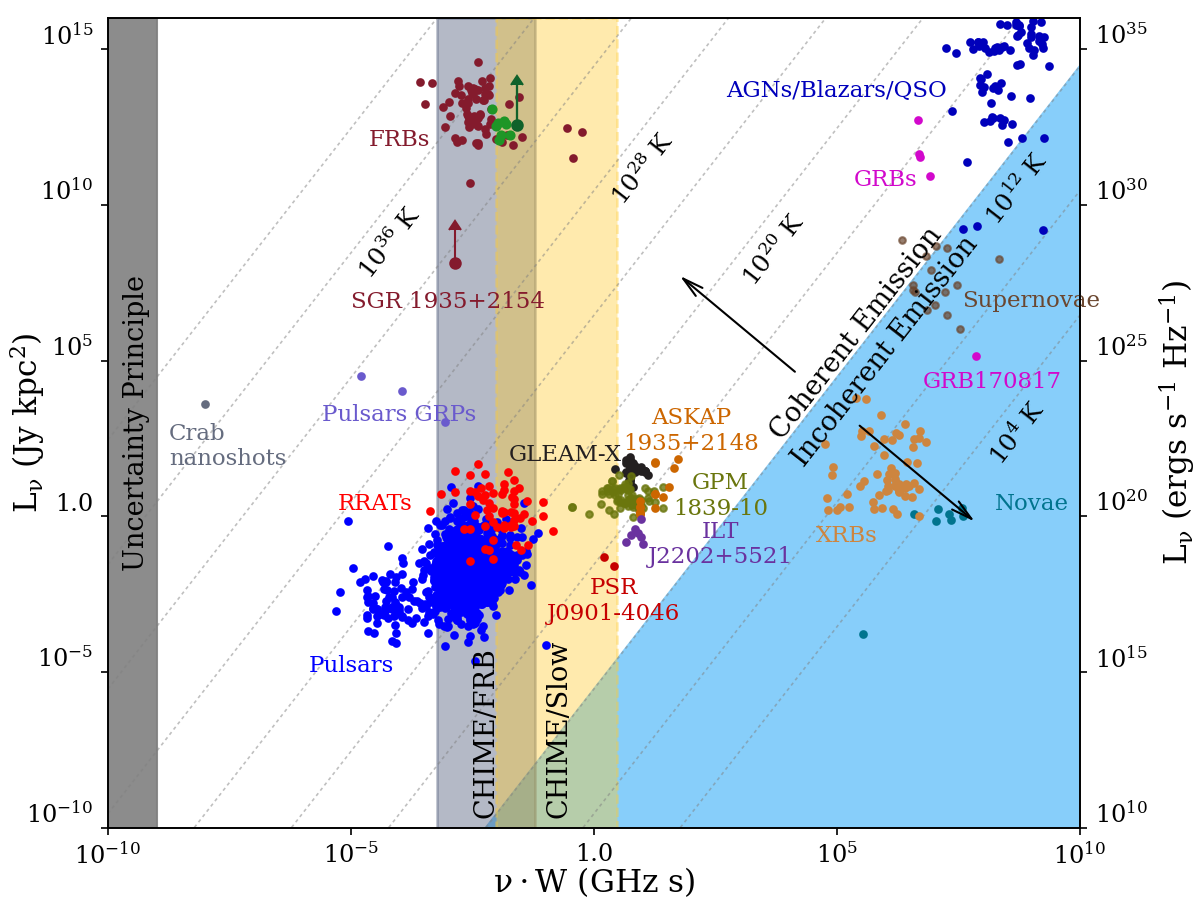
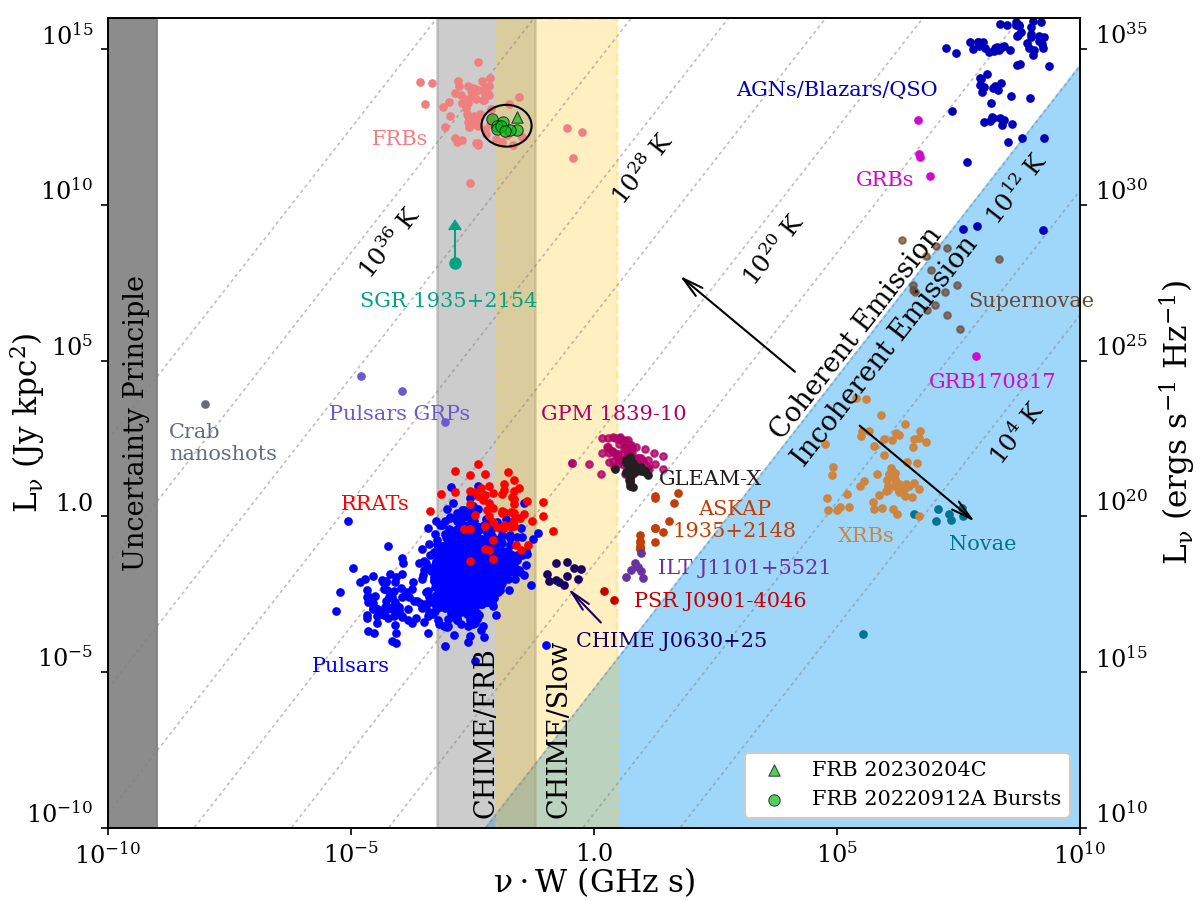
Update fig for chime slow paper

diff --git a/phase_space.py b/phase_space.py
@@ -6,6 +6,7 @@ from matplotlib import transforms
 import numpy as np
 import matplotlib as mpl
 import matplotlib.pyplot as plt
+import matplotlib.patches as patches
 
 
 def L_Tb(nuW:np.array, Tb:float) -> np.array:
@@ -69,7 +70,7 @@ ax2.yaxis.set_ticklabels(labels, va='bottom')
 # set labels and fontsizes
 ax1.tick_params('both', labelsize=11.5)
 ax2.tick_params('y', labelsize=11.5)
-ax1.set_xlabel("$\\nu \cdot $W (GHz s)", fontsize=15, labelpad=-2)
+ax1.set_xlabel("$\\nu \\cdot $W (GHz s)", fontsize=15, labelpad=-2)
 ax1.set_ylabel("L$_{\\nu}$ (Jy kpc$^2$)", fontsize=15,labelpad=-10)
 ax2.set_ylabel("L$_{\\nu}$ (ergs s$^{-1}$ Hz$^{-1}$)", fontsize=15, labelpad=5)
 fig.subplots_adjust(0.09, 0.08, 0.9, .98)
@@ -96,7 +97,7 @@ ax1.axvspan(1e-10, 1e-9, color='#808080', alpha=0.9, zorder=-1)
 ax1.text(0.015, 0.5, "Uncertainty Principle", fontsize=13, rotation=90, va='center', transform=trans)
 
 # coherent/incoherent region
-ax1.fill_between(xticks, L_Tb(xticks, 1e12), color='#87CEFA', zorder=0)
+ax1.fill_between(xticks, L_Tb(xticks, 1e12), color='#87CEFA', alpha=0.8, zorder=0)
 ax1.text(0.25e5*10, 7.5e4*10, "Coherent Emission", fontsize=13, rotation=rot, va='center', ha='center')
 ax1.text(1e5*10, 2.0e4*10, "Incoherent Emission", fontsize=13, rotation=rot, va='center', ha='center')
 
@@ -110,15 +111,15 @@ ax1.annotate("", xy=(x2-dx, y2 + dx ), xytext=(x2, y2),
              arrowprops=dict(arrowstyle="->, head_length=1,head_width=0.25"), xycoords=trans)
 
 # Add CHIME/Slow and CHIME/FRB range
-ax1.axvspan(1e-3*.6, 100e-3*.6, color='#445172', lw=1.2, alpha=0.4, zorder=0)
+ax1.axvspan(1e-3*.6, 100e-3*.6, color='#808080', lw=1.2, alpha=0.4, zorder=0)
 ax1.text(.375, 0.02, "CHIME/FRB", fontsize=13, rotation=90, ha='left', transform=trans)
 
-ax1.axvspan(16e-3*.6, 5*.6, color='#ffcc33', ls='--', lw=1.2, alpha=0.4, zorder=0)
+ax1.axvspan(16e-3*.6, 5*.6, color='#ffcc33', ls='--', lw=1.2, alpha=0.3, zorder=0)
 ax1.text(0.45, 0.02, "CHIME/Slow", fontsize=13, rotation=90, ha='left', transform=trans)
 
 # set marker and fontsize for source points and labels
 ms=10
-fs=11
+fs=10
 
 # plot pulsars
 psr = np.loadtxt(data_path.joinpath("psrs_2"), usecols=(4,5))
@@ -143,34 +144,42 @@ ax1.text(0.275, 0.4, "RRATs", c='#FF0000', fontsize=fs, va='center', ha='center'
 
 # plot FRBs
 frb = np.loadtxt(data_path.joinpath("frbs_vals_to_plot"), usecols=(1,0), skiprows=1)
-ax1.scatter(*frb.T, c="#841b2d", s=ms)
-ax1.text(0.3, 0.85, "FRBs", c='#841b2d', fontsize=fs, va='center', ha='center', transform=trans)
+#ax1.scatter(*frb.T, c="#841b2d", s=ms)
+ax1.scatter(*frb.T, c="#f08080", s=ms)
+ax1.text(0.3, 0.85, "FRBs", c='#f08080', fontsize=fs, va='center', ha='center', transform=trans)
 
 # chime slow new
 chime_slow = np.loadtxt(data_path.joinpath("chime_slow_detections_new.dat"), usecols=(1, 2, 3, 4), skiprows=1)
 nu_w_slow = chime_slow[0] * chime_slow[1] / 1000
 lum_slow = 4*np.pi*(chime_slow[3]*1000)**2*chime_slow[2]  # Jy kpc2
-ax1.scatter(nu_w_slow, lum_slow, s=15, c='#10622b')
-ax1.errorbar(nu_w_slow, lum_slow, yerr=lum_slow**1.1,
-             lolims=True, fmt=".", ms=10, lw=1.1, c='#10622b')
+ax1.scatter(nu_w_slow, lum_slow, s=30, marker="^", c='#05bd18', lw=0.5, edgecolors='black', alpha=0.7, label='FRB 20230204C')
 
 # chime slow r117
 chime_slow = np.loadtxt(data_path.joinpath("chime_slow_detections_r117.dat"), usecols=(1, 2, 3, 4), skiprows=1)
 nu_w_slow = chime_slow[:, 0] * chime_slow[:, 1] / 1000
 lum_slow = 4*np.pi*(chime_slow[:, 3]*1000)**2*chime_slow[:, 2]  # Jy kpc2
-ax1.scatter(nu_w_slow, lum_slow, s=15, c='#1e9627')
+ax1.scatter(nu_w_slow, lum_slow, s=30, marker="o", c='#05bd18', lw=0.5, edgecolors='black', alpha=0.7, label='FRB 20220912A Bursts')
 
+# add legend
+ax1.legend(fontsize=10, loc='lower right', framealpha=1)
+
+# add a circle around the above points
+center = (0.41, 0.867)  # (x, y) coordinates
+radius = 0.0258
+
+circle = patches.Circle(center, radius, facecolor='None', edgecolor='black', linewidth=1., transform=ax1.transAxes)
+ax1.add_patch(circle)
 
 # plot SGR 1935+2154
 sgr = np.loadtxt(data_path.joinpath("SGR1935+2154"))
 ax1.errorbar(sgr[2]*sgr[3], sgr[0]*sgr[1]**2, yerr=sgr[0]*sgr[1]**3,
-             lolims=True, fmt=".", ms=ms, lw=1, c='#841b2d')
-ax1.text(0.35, 0.65, "SGR 1935+2154", c='#841b2d', fontsize=fs, va='center', ha='center', transform=trans)
+             lolims=True, fmt=".", ms=ms, lw=1, c='#04a283')
+ax1.text(0.35, 0.65, "SGR 1935+2154", c='#04a283', fontsize=fs, va='center', ha='center', transform=trans)
 
 # plot GLEAM-X
 gx = np.loadtxt(data_path.joinpath("luminosity_nuW.txt"), usecols=(1, 0), skiprows=1)
 ax1.scatter(*gx.T, c="#231F20", s=ms)
-ax1.text(0.47, 0.46, "GLEAM-X", c='#231F20', fontsize=fs, va='center', ha='center', transform=trans)
+ax1.text(0.62, 0.43, "GLEAM-X", c='#231F20', fontsize=fs, va='center', ha='center', transform=trans)
 
 # plot MWA LPTs
 # plot GPM 1839-10
@@ -186,10 +195,11 @@ nu_w = nu_w[nonzero_nu_w]
 alpha = -3.17  # only the mean value take, errors ignored
 beta = -0.26
 q = -0.56  # only the mean value take, errors ignored
-L0 = 4 * np.pi * gpm_dist**2 * gpm_data[:, 2]*1e-3 * np.sqrt(np.pi/abs(q)) * np.exp(-(alpha + beta + 1)**2/(4*abs(q))) # Jy kp^2
+#L0 = 4 * np.pi * gpm_dist**2 * gpm_data[:, 2]*1e-3 * np.sqrt(np.pi/abs(q)) * np.exp(-(alpha + beta + 1)**2/(4*abs(q))) # Jy kp^2
+L0 = gpm_dist**2 * gpm_data[:, 1] # Jy kpc^2 pseudo lum
 L0 = L0[nonzero_nu_w] #* 1.05e-43
-ax1.scatter(nu_w, L0, c="#6A760D", alpha=0.8, s=ms)
-ax1.text(0.63, 0.41, "GPM\n1839-10", c='#6A760D', fontsize=fs, va='center', ha='center', transform=trans)
+ax1.scatter(nu_w, L0, c="#b00068", alpha=0.8, s=ms, zorder=0)
+ax1.text(0.52, 0.51, "GPM 1839-10", c='#b00068', fontsize=fs, va='center', ha='center', transform=trans)
 
 # plot MeerKAT LPT (code from Iris De Ruiter)
 psrJ0901_peak_flux = np.array([13.4e-3, 25.4e-3]) # in Jy (Lband, Uband) in image
@@ -198,13 +208,10 @@ psrJ0901_dist = np.mean([328e-3, 467e-3]) # average of ymw16 and ne2001 in kpc
 psrJ0901_widths = np.array([2, 2]) # in secs (Lband, Uband) in image
 psrJ0901_freq = np.array([1.284, 0.816]) # in GHz
 
-psrJ0901_lum = 4*np.pi*psrJ0901_peak_flux*psrJ0901_dist**2
-
-#[mtp0013_peak_fluxdensities[i]*mtp0013_dist**2 
-#               for i in range(len(mtp0013_peak_fluxdensities))] # in Jy kpc^2
+psrJ0901_lum = psrJ0901_peak_flux*psrJ0901_dist**2
 
 ax1.scatter(psrJ0901_freq*psrJ0901_widths, psrJ0901_lum, c="#c60000", s=ms)
-ax1.text(0.52, 0.28, "PSR\nJ0901-4046", c='#c60000', fontsize=fs, va='center', ha='center', transform=trans)
+ax1.text(0.63, 0.28, "PSR J0901-4046", c='#c60000', fontsize=fs, va='center', ha='center', transform=trans)
 
 # plot ASKAP source (code from Iris De Ruiter, data from Manisha Caleb)
 askap_1935_dist = np.mean([4.3, 5.4])  # Mean of NE2001 and YMW16 distances in kpc
@@ -213,10 +220,10 @@ askap_1935_peak_flux = np.loadtxt(data_path.joinpath("askap_1935_2148.csv"), use
 tint_spans = np.array([1, 1, 5, 3, 2, 1, 1, 1, 2, 1, 2, 4, 2, 6, 2, 1]) # in number of integrations
 askap_freq = 887.5*1e-3 # in GHz
 
-askap_1935_lum = 4*np.pi*askap_1935_peak_flux*1e-3*askap_1935_dist**2  # Jy kpc
+askap_1935_lum = askap_1935_peak_flux*1e-3*askap_1935_dist**2  # Jy kpc
 
-plt.scatter(askap_freq*tint_spans*10, askap_1935_lum, c="#cc6600", s=ms)
-ax1.text(0.6, 0.49, "ASKAP\n1935+2148", c='#cc6600', fontsize=fs, va='center', ha='center', transform=trans)
+plt.scatter(askap_freq*tint_spans*10, askap_1935_lum, c="#c13f05", s=ms)
+ax1.text(0.645, 0.38, "ASKAP\n1935+2148", c='#c13f05', fontsize=fs, va='center', ha='center', transform=trans)
 
 # plot LOFAR ILT J1101 + 5521 (code and data from Iris De Ruiter)
 ilt_J1101_flux = np.array([68, 78, 256, 46, 93, 123, 41])/1000 # in Jy from Overleaf
@@ -225,9 +232,20 @@ LOFAR_freq = 0.144 # GHz
 ilt_J1101_duration = np.array([8, 5, 8, 4, 7, 6, 9])*8 #seconds
 dist_ilt_J1101 = 0.504  # kpc
 
-ilt_J1101_lum = 4*np.pi*ilt_J1101_flux*dist_ilt_J1101**2  # Jy kpc
+ilt_J1101_lum = ilt_J1101_flux*dist_ilt_J1101**2  # Jy kpc
 plt.scatter(LOFAR_freq*ilt_J1101_duration, ilt_J1101_lum, c="#6a329f", s=ms)
-ax1.text(0.63, 0.35, "ILT\nJ2202+5521", c='#6a329f', fontsize=fs, va='center', ha='center', transform=trans)
+ax1.text(0.655, 0.32, "ILT J1101+5521", c='#6a329f', fontsize=fs, va='center', ha='center', transform=trans)
+
+# plot CHIME J0630+25 (Dong et al)
+chime_j0630 = np.loadtxt(data_path.joinpath("CHIME_J0630.txt"))
+chime_j0630_flux = chime_j0630[:,1] / chime_j0630[:,0]  # in Jy, fluence / width
+chime_j0630_dist = 0.170  # in kpc
+chime_j0630_lum = chime_j0630_flux*chime_j0630_dist**2
+
+plt.scatter(chime_j0630[:,0]*0.6*1e-3, chime_j0630_lum, c="#180161", s=ms)
+ax1.text(0.58, 0.23, "CHIME J0630+25", c='#180161', fontsize=fs, va='center', ha='center', transform=trans)
+ax1.annotate("", xy=(0.47, 0.3 ), xytext=(0.51, 0.25),
+             arrowprops=dict(arrowstyle="->, head_length=1,head_width=0.2",color='#180161'), xycoords=trans)
 
 # plot AGNs/Blazars/QSO
 agns = np.loadtxt(data_path.joinpath("Gosia_AGN_QSO_Blazar_TDE2"), usecols=(1, 6, 8), skiprows=1)
@@ -252,12 +270,12 @@ ax1.text(0.95, 0.65, "Supernovae", c='#6b4730', fontsize=fs, va='center', ha='ce
 # Novae
 novae = np.loadtxt(data_path.joinpath("Gosia_Novae2"), usecols=(1, 6, 8))
 ax1.scatter(novae[:, 0]*86400*novae[:, 2], novae[:, 1]*1.05026e-20, c="#01748e", s=ms)
-ax1.text(0.95, 0.4, "Novae", c='#01748e', fontsize=fs, va='center', ha='center', transform=trans)
+ax1.text(0.9, 0.35, "Novae", c='#01748e', fontsize=fs, va='center', ha='center', transform=trans)
 
 # XRBs
 xrbs = np.loadtxt(data_path.joinpath("Gosia_XRB2"), usecols=(1, 6, 8))
 ax1.scatter(xrbs[:, 0]*86400*xrbs[:, 2], xrbs[:, 1]*1.05026e-20, c="#CD853F", s=ms)
-ax1.text(0.76, 0.36, "XRBs", c='#CD853F', fontsize=fs, va='center', ha='center', transform=trans)
+ax1.text(0.78, 0.36, "XRBs", c='#CD853F', fontsize=fs, va='center', ha='center', transform=trans)
 
 fig.savefig(data_path.parent.joinpath("phase_space_py.png"), dpi=150)
 fig.savefig(data_path.parent.joinpath("phase_space_py.pdf"))
